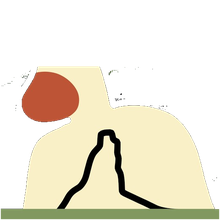
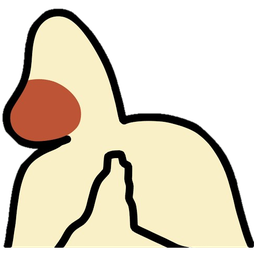
art-audit-q3: Y7KKKTTkwNk goose recut from the video sprite with its black outline (256px)

Changed region(s): [[0.0, 0.0273, 1.0, 1.0], [0.4909, 0.3, 0.5455, 0.3545]]

diff --git a/rebuild/app/tools/art_q3a_fix.py b/rebuild/app/tools/art_q3a_fix.py
@@ -138,6 +138,25 @@ def troll():             # hv_NHWqysZE troll.png (avatar of hv_NHWqysZE, puKYAUl
     print('hv_NHWqysZE/troll.png cut top', y0)
 
 
+
+@job
+def goose():             # Y7KKKTTkwNk: the old cut lost the goose's thick black outline.  Recut from frames/sprites/Y7KKKTTkwNk_goose.png:
+    # cream body + orange beak (largest blob), plus the black outline ring around it (pixels darker than the dark-green
+    # background within the outline's width), cut at the green ground bar.  Right edge stays cut off as in the frame.
+    a = rgb(os.path.join(SP, 'Y7KKKTTkwNk_goose.png'))[:508]
+    r, g, b = a[..., 0], a[..., 1], a[..., 2]
+    fill = ((r > 200) & (g > 190) & (b > 150)) | ((r > 150) & (g < 120) & (b < 90) & (r - g > 50))
+    lab, n = ndimage.label(fill)
+    sizes = ndimage.sum(np.ones_like(lab), lab, range(1, n + 1))
+    fill = ndimage.binary_fill_holes(np.isin(lab, 1 + np.where(sizes >= 3000)[0]))     # body + beak (split by a black line)
+    blk = a.max(-1) < 18
+    ring = ndimage.binary_dilation(fill, iterations=18) & blk
+    ring = ndimage.binary_propagation(ring & ndimage.binary_dilation(fill, iterations=3), mask=ring)   # only outline touching the goose
+    m = ndimage.binary_fill_holes(fill | ring)
+    m = ndimage.binary_opening(m, iterations=2) | fill
+    save_rgba(a, soft_alpha(m), 'Y7KKKTTkwNk/goose.png', pad=4, size=256)
+
+
 if __name__ == '__main__':
     for n in (sys.argv[1:] or list(JOBS)):
         JOBS[n]()
